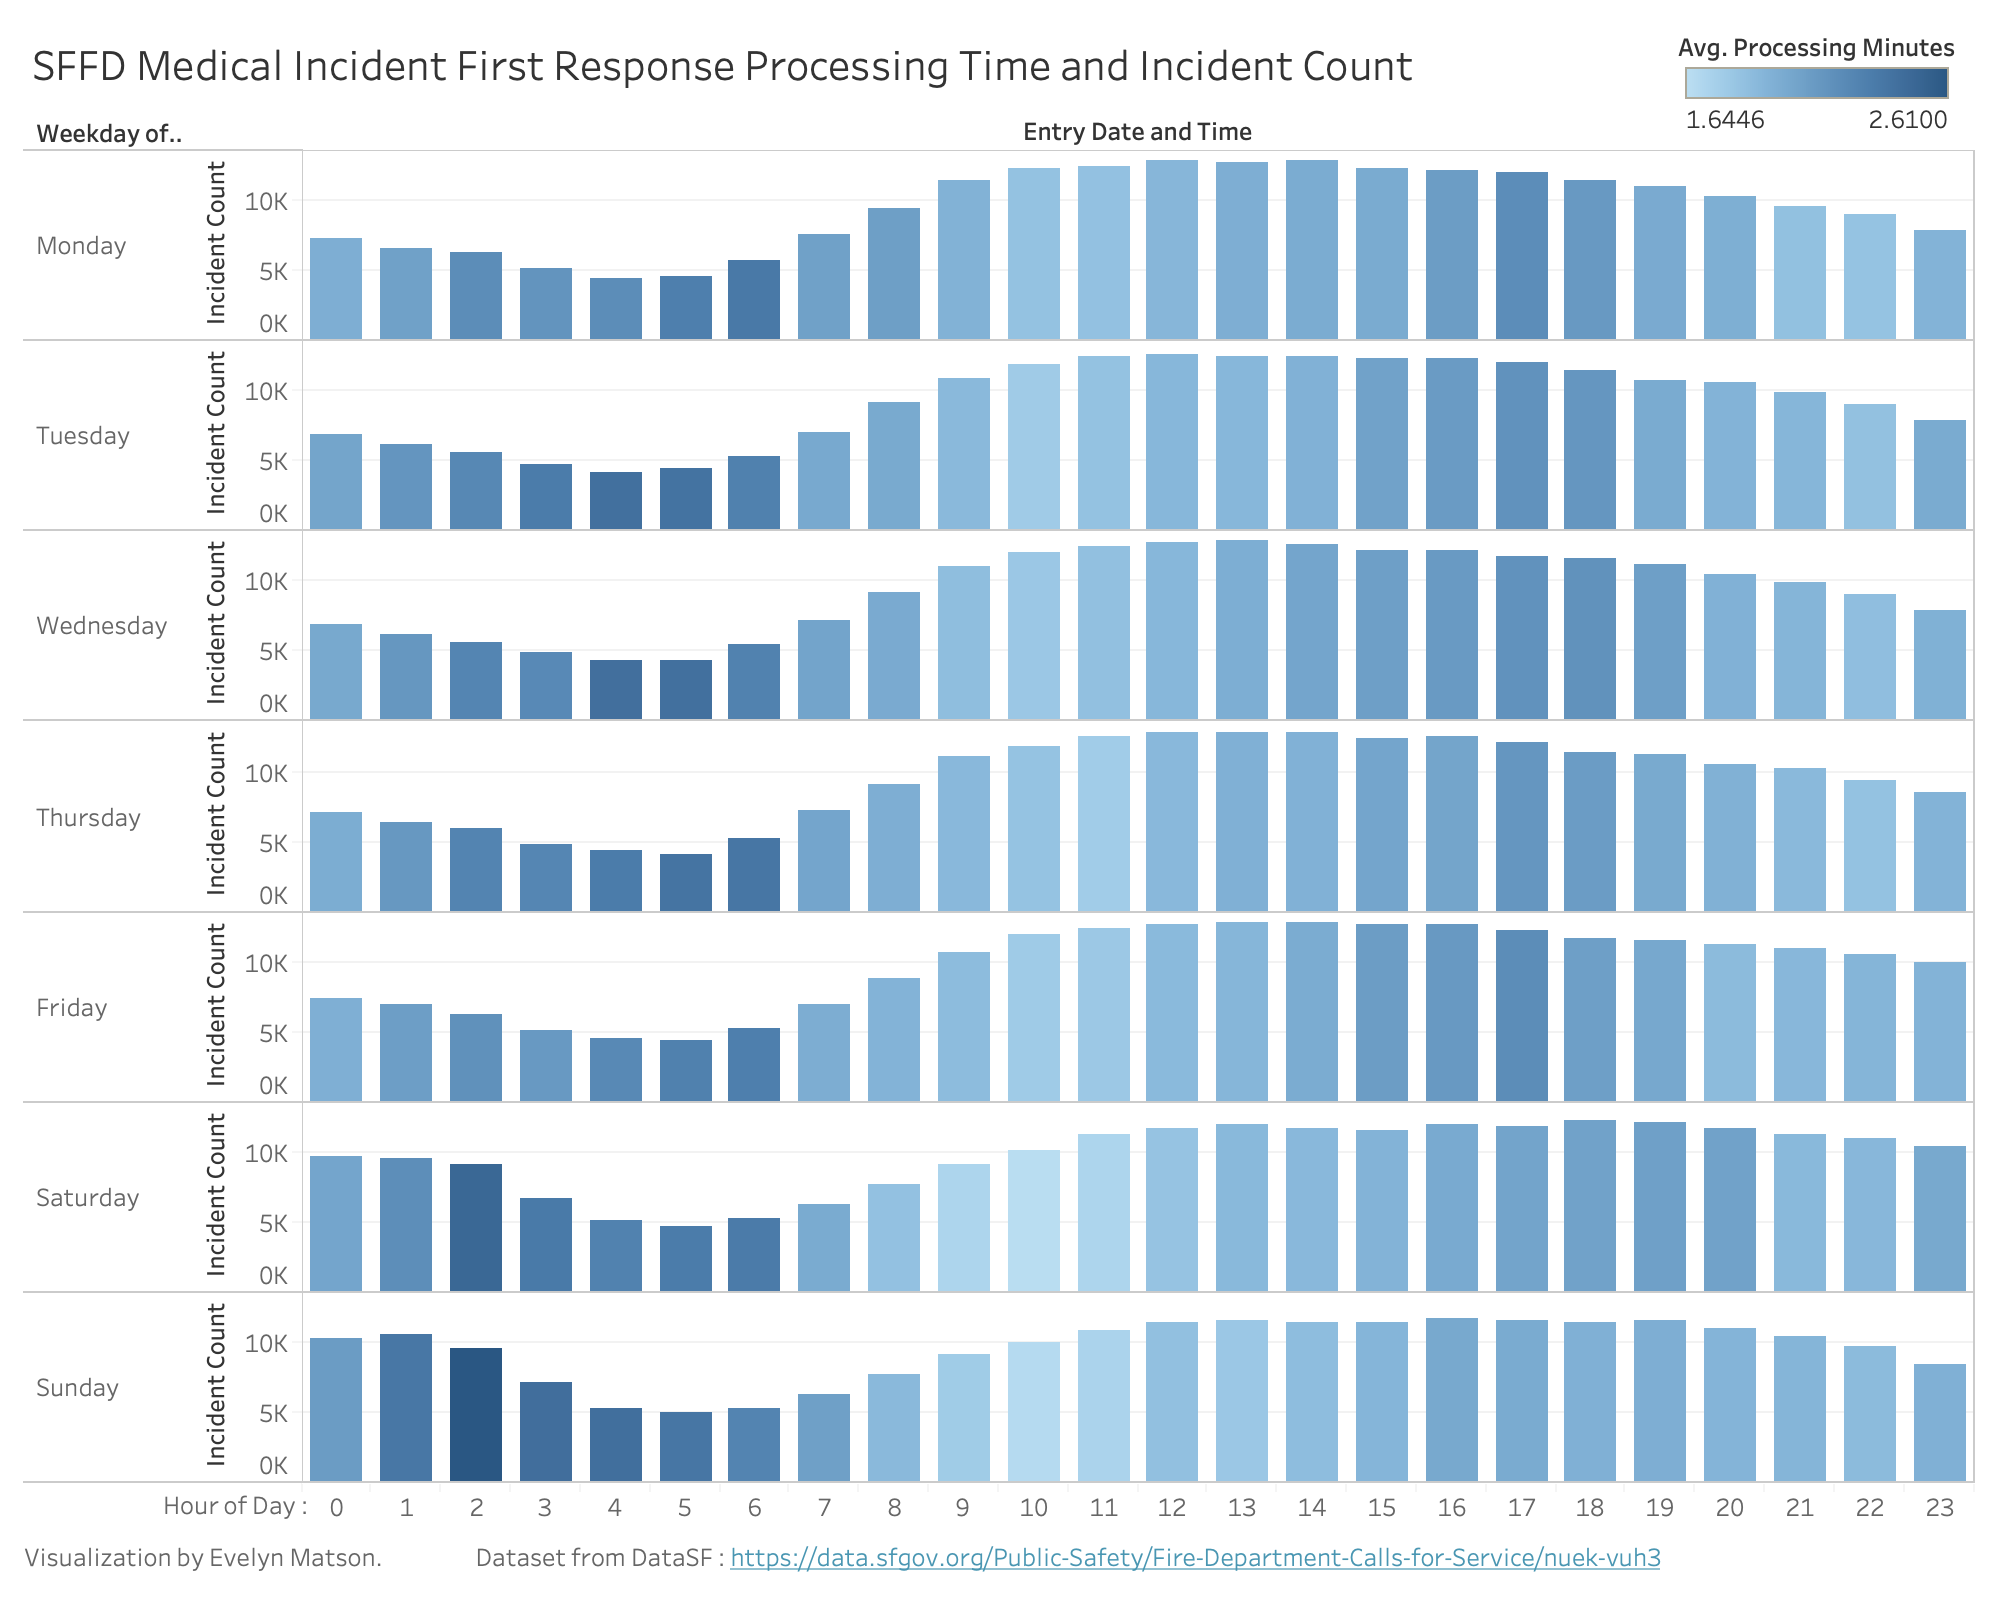
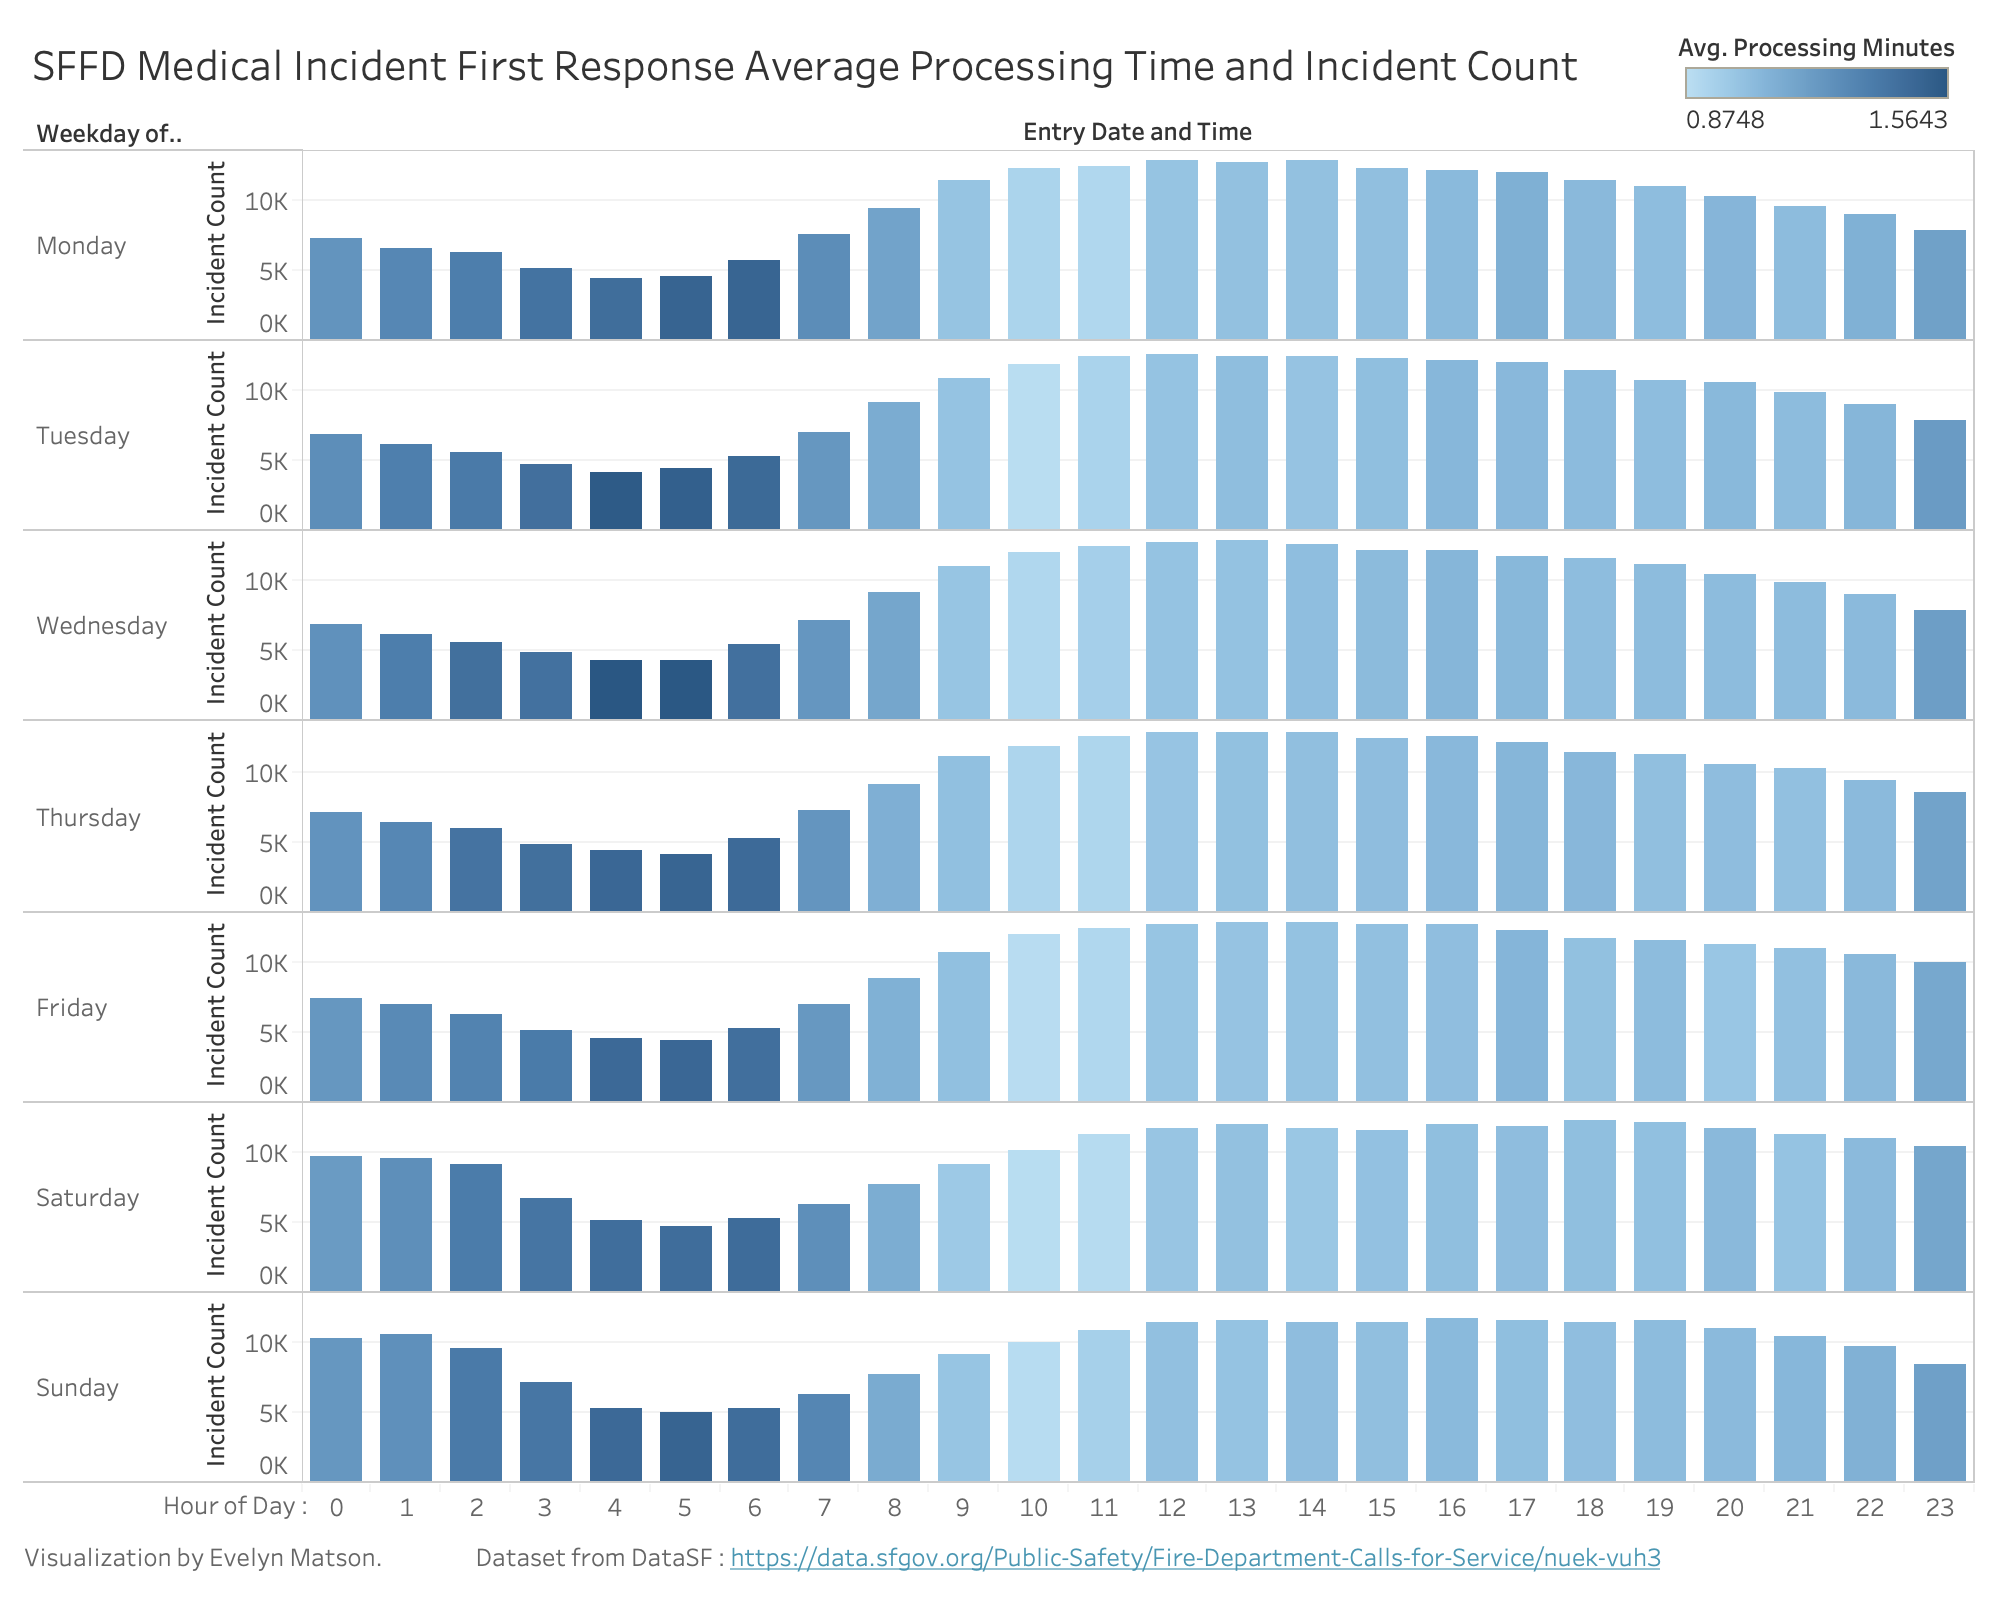
working on Eve's prototypes

diff --git a/dataset.html b/dataset.html
@@ -128,33 +128,57 @@
        </thead>
        <tbody>
          <tr>
-           <td>Call Date</td>
+           <th>Call Date</th>
            <td>Date the call is received at the 911 Dispatch Center (MM/DD/YY).</td>
          </tr>
          <tr>
-           <td>Received DtTm</td>
+           <th>Call Type</th>
+           <td>
+             Type of call the incident falls into. Relevant types (among others):
+             <ul>
+               <li>Medical Incident</li>
+               <li>Structure Fire</li>
+               <li>Traffic Collision</li>
+             </ul>
+           </td>
+
+         </tr>
+         <tr>
+           <th>Received DtTm</th>
            <td>Date and time of call is received at the 911 dispatch center (YYYY Month Abbr. HH:MM:SS).</td>
          </tr>
          <tr>
-           <td>Dispatch DtTm</td>
+           <th>Entry Time</th>
+           <td>Date and time the 911 operator submits the entry of the initical call information into the CAD system</td>
+         </tr>
+         <tr>
+           <th>Dispatch DtTm</th>
            <td>Date and time the 911 operator dispatches this unit to the call (YYYY Month Abbr. HH:MM:SS).</td>
          </tr>
          <tr>
-           <td>On Scene DtTm</td>
+           <th>Response DtTm</th>
+           <td>Date and time this unit acknowledges the dispatch and records that the unit is en route to the location of the call.</td>
+         </tr>
+         <tr>
+           <th>On Scene DtTm</th>
            <td>Date and time the unit recors arriving to the location of the incident (YYYY Month Abbr. HH:MM:SS).</td>
          </tr>
          <tr>
-           <td>Hospital DtTm</td>
+           <th>Hospital DtTm</th>
            <td>If this unit is an ambulance, date and time the unit begins the transport unit arrives to hospital (YYYY Month Abbr. HH:MM:SS)</td>
          </tr>
          <tr>
-           <td>Call Type Group</td>
+           <th>Call Type Group</th>
            <td>Call types: Fire, Alarm, Potential Life Threatening, Non Life Threatening, and Null</td>
          </tr>
          <tr>
-           <td>Neighborhoods - Analysis Boudaries</td>
+           <th>Neighborhoods - Analysis Boudaries</th>
            <td>Neighborhood District associated with this address.</td>
          </tr>
+        <tr>
+          <th>Unit sequence in call dispatch</th>
+          <td>A number that indicates the order this unit was assigned to this call</td>
+        </tr>
        </tbody>
      </table>
 

diff --git a/eve.html b/eve.html
@@ -106,7 +106,7 @@
 
         <h2>Visualization Prototypes</h2>
         <p>
-          In my visualizations, I chose to focus on 'processing time': how long it takes fire department units to prepare for a call, or the difference between when a call is sent from a 911 dispatcher (entry time) and when the unit leaves the station (response time).
+          In my visualizations, I chose to focus on 'processing time': how long it takes fire department units to prepare for a call, or the difference between when a call is sent from a 911 dispatcher (dispatch time) and when the unit leaves the station (response time).
           I focus on two of the most common types of incidents, medical and structure fires, and on only the processing time for the first response vehicle to any given call.
         </p>
         <p>
@@ -138,7 +138,7 @@
         <img src="resources/Eve-Prototype-Medical-Overview.png" height="300" width="900"/>
 
         <h3>Data Wrangling</h3>
-        <p>I did all data wrangling in Tableau after simply importing the whole dataset. I added a calculated "processing time" field defined as the call response time minus the call entry time.</p>
+        <p>I did all data wrangling in Tableau after simply importing the whole dataset. I added a calculated "processing time" field defined as the call response time minus the call dispatch time.</p>
         <p>For both visualizations, I also did the following filtering:</p>
           <ul>
             <li>Remove responses with "unit sequence" greater than 1, to show only the first responses, not any subsequent responses to the same call.</li>

diff --git a/about.html b/about.html
@@ -227,6 +227,7 @@
             <ul>
               <li>Designed the base site template</li>
               <li>Built the "About" page.</li>
+              <li>Designed and implemented Eve's visualizations on 'processing time'.</li>
             </ul>
           </div>
           <div class="tile is-vertical contributions-box">
